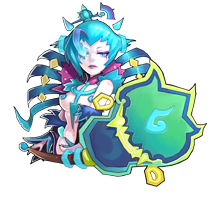
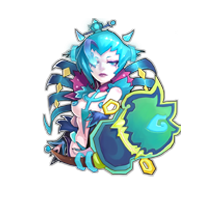
替换铁扇公主5星卡

diff --git a/client/cocos2d-x-2.2.1/projects/Magpie/Resources/src/view/battleModule/battleCardNode.js b/client/cocos2d-x-2.2.1/projects/Magpie/Resources/src/view/battleModule/battleCardNode.js
@@ -12,7 +12,7 @@
  * */
 
 var BOSS_NODE_SCALE = 1.3;
-var RARE_NODE_SCALE = 1.2;
+var RARE_NODE_SCALE = 1.1;
 
 var BattleCardNode = cc.Node.extend({
     _index: 0,
